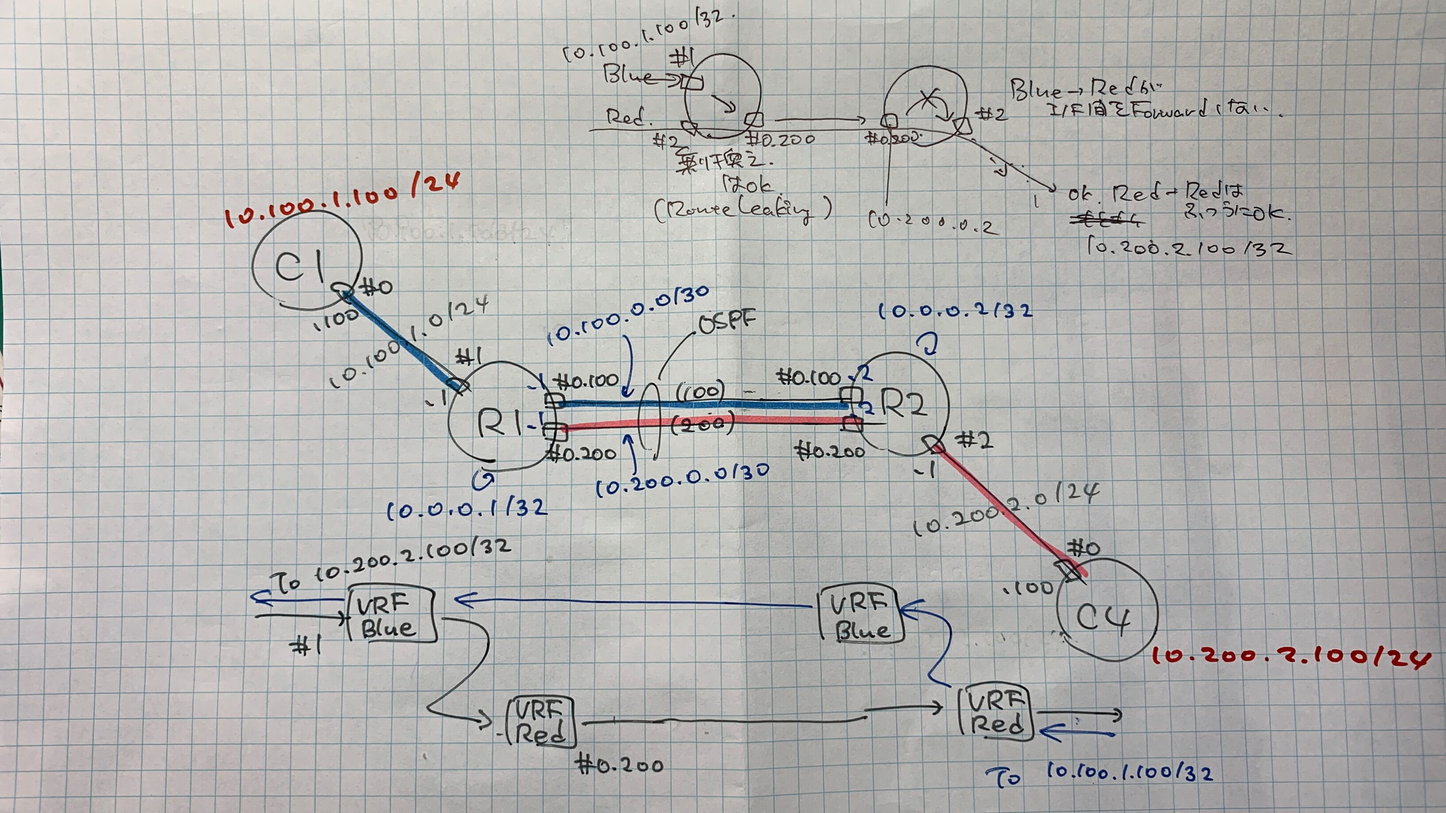
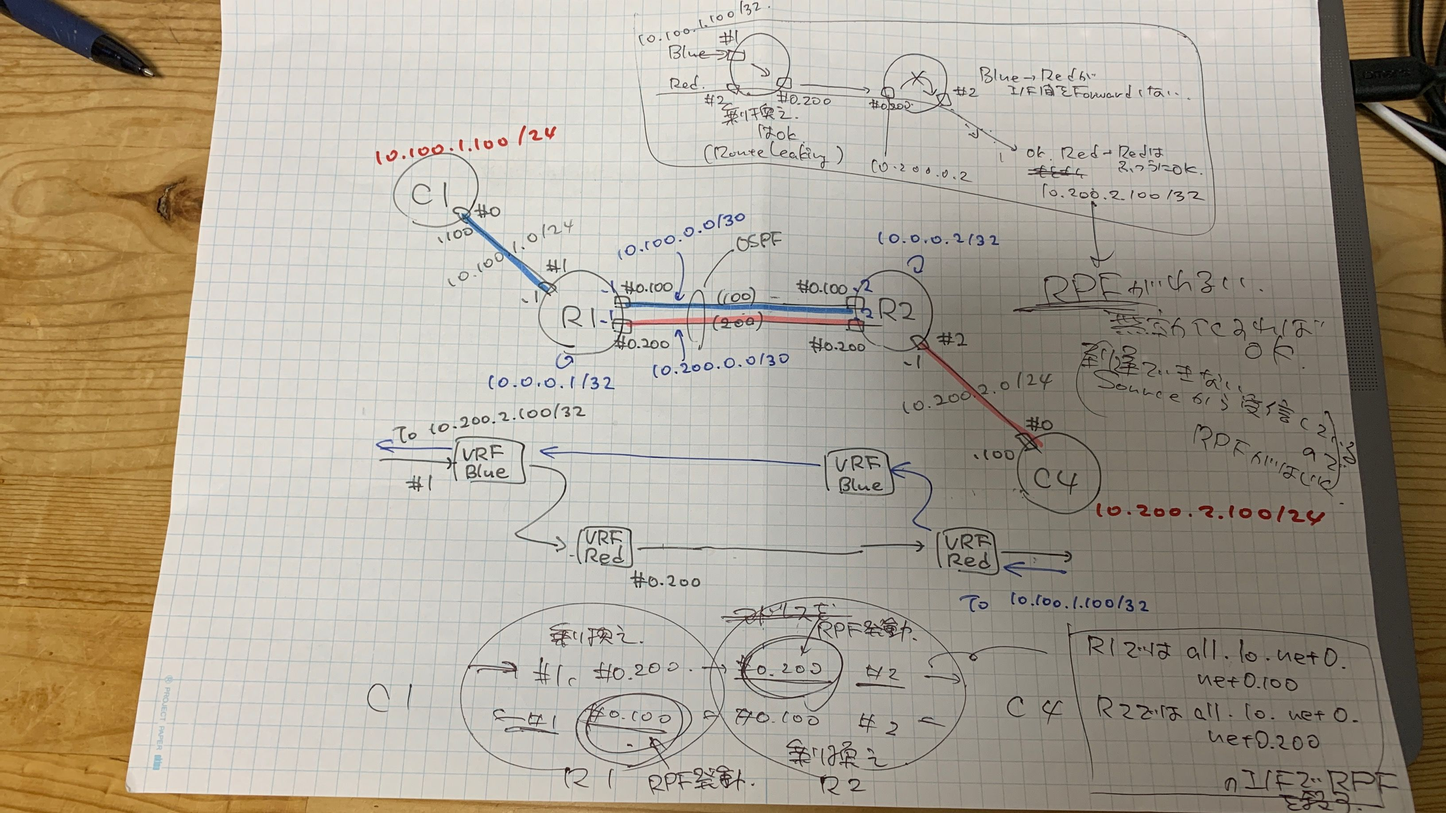
Success: VRF route leaking by static routing (Need to disable RPF)

diff --git a/vrf_leaking_1/README.md b/vrf_leaking_1/README.md
@@ -1,44 +1,18 @@
 ![](topo.jpg)
 
-- VRF乗り換え自体はうまく動いているけど，乗り換えた先でインターフェイス間の転送がされない（R2でnet0.200からnet2に転送されない）
-  - Red-Redの場合は転送もされる
+## RPFについて
+送信元アドレスに対する経路を学習していない場合にパケットを破棄する機能．  
+VRFを乗り換える場合は，次ホップのルータの受信I/FでRPFが発動するので，予め無効化しておく必要がある．  
+各ルータで最低限必要な設定はそれぞれ以下2行．
 
 ### R1
 ```
-07:59:53.557922 IP 10.100.1.100 > 10.200.2.100: ICMP echo request, id 149, seq 1, length 64
-07:59:53.557942 IP 10.100.1.100 > 10.200.2.100: ICMP echo request, id 149, seq 1, length 64
-07:59:53.557944 ethertype IPv4, IP 10.100.1.100 > 10.200.2.100: ICMP echo request, id 149, seq 1, length 64
-07:59:54.564953 IP 10.100.1.100 > 10.200.2.100: ICMP echo request, id 149, seq 2, length 64
-07:59:54.564983 IP 10.100.1.100 > 10.200.2.100: ICMP echo request, id 149, seq 2, length 64
-07:59:54.564986 ethertype IPv4, IP 10.100.1.100 > 10.200.2.100: ICMP echo request, id 149, seq 2, length 64
-07:59:55.588939 IP 10.100.1.100 > 10.200.2.100: ICMP echo request, id 149, seq 3, length 64
-07:59:55.588982 IP 10.100.1.100 > 10.200.2.100: ICMP echo request, id 149, seq 3, length 64
-07:59:55.588985 ethertype IPv4, IP 10.100.1.100 > 10.200.2.100: ICMP echo request, id 149, seq 3, length 64
-
-08:00:06.549292 ethertype IPv4, IP 10.200.2.100 > 10.100.1.100: ICMP echo request, id 53, seq 1, length 64
-08:00:06.549292 IP 10.200.2.100 > 10.100.1.100: ICMP echo request, id 53, seq 1, length 64
-08:00:07.556914 ethertype IPv4, IP 10.200.2.100 > 10.100.1.100: ICMP echo request, id 53, seq 2, length 64
-08:00:07.556914 IP 10.200.2.100 > 10.100.1.100: ICMP echo request, id 53, seq 2, length 64
-08:00:08.580890 ethertype IPv4, IP 10.200.2.100 > 10.100.1.100: ICMP echo request, id 53, seq 3, length 64
-08:00:08.580890 IP 10.200.2.100 > 10.100.1.100: ICMP echo request, id 53, seq 3, length 64
+sysctl -w 'net.ipv4.conf.net0.rp_filter=0'
+sysctl -w 'net.ipv4.conf.net0/100.rp_filter=0'
 ```
 
 ### R2
 ```
-07:59:53.557944 ethertype IPv4, IP 10.100.1.100 > 10.200.2.100: ICMP echo request, id 149, seq 1, length 64
-07:59:53.557944 IP 10.100.1.100 > 10.200.2.100: ICMP echo request, id 149, seq 1, length 64
-07:59:54.564987 ethertype IPv4, IP 10.100.1.100 > 10.200.2.100: ICMP echo request, id 149, seq 2, length 64
-07:59:54.564987 IP 10.100.1.100 > 10.200.2.100: ICMP echo request, id 149, seq 2, length 64
-07:59:55.588988 ethertype IPv4, IP 10.100.1.100 > 10.200.2.100: ICMP echo request, id 149, seq 3, length 64
-07:59:55.588988 IP 10.100.1.100 > 10.200.2.100: ICMP echo request, id 149, seq 3, length 64
-
-08:00:06.549273 IP 10.200.2.100 > 10.100.1.100: ICMP echo request, id 53, seq 1, length 64
-08:00:06.549291 IP 10.200.2.100 > 10.100.1.100: ICMP echo request, id 53, seq 1, length 64
-08:00:06.549292 ethertype IPv4, IP 10.200.2.100 > 10.100.1.100: ICMP echo request, id 53, seq 1, length 64
-08:00:07.556885 IP 10.200.2.100 > 10.100.1.100: ICMP echo request, id 53, seq 2, length 64
-08:00:07.556911 IP 10.200.2.100 > 10.100.1.100: ICMP echo request, id 53, seq 2, length 64
-08:00:07.556913 ethertype IPv4, IP 10.200.2.100 > 10.100.1.100: ICMP echo request, id 53, seq 2, length 64
-08:00:08.580865 IP 10.200.2.100 > 10.100.1.100: ICMP echo request, id 53, seq 3, length 64
-08:00:08.580887 IP 10.200.2.100 > 10.100.1.100: ICMP echo request, id 53, seq 3, length 64
-08:00:08.580889 ethertype IPv4, IP 10.200.2.100 > 10.100.1.100: ICMP echo request, id 53, seq 3, length 64
+sysctl -w 'net.ipv4.conf.net0.rp_filter=0'
+sysctl -w 'net.ipv4.conf.net0/200.rp_filter=0'
 ```
